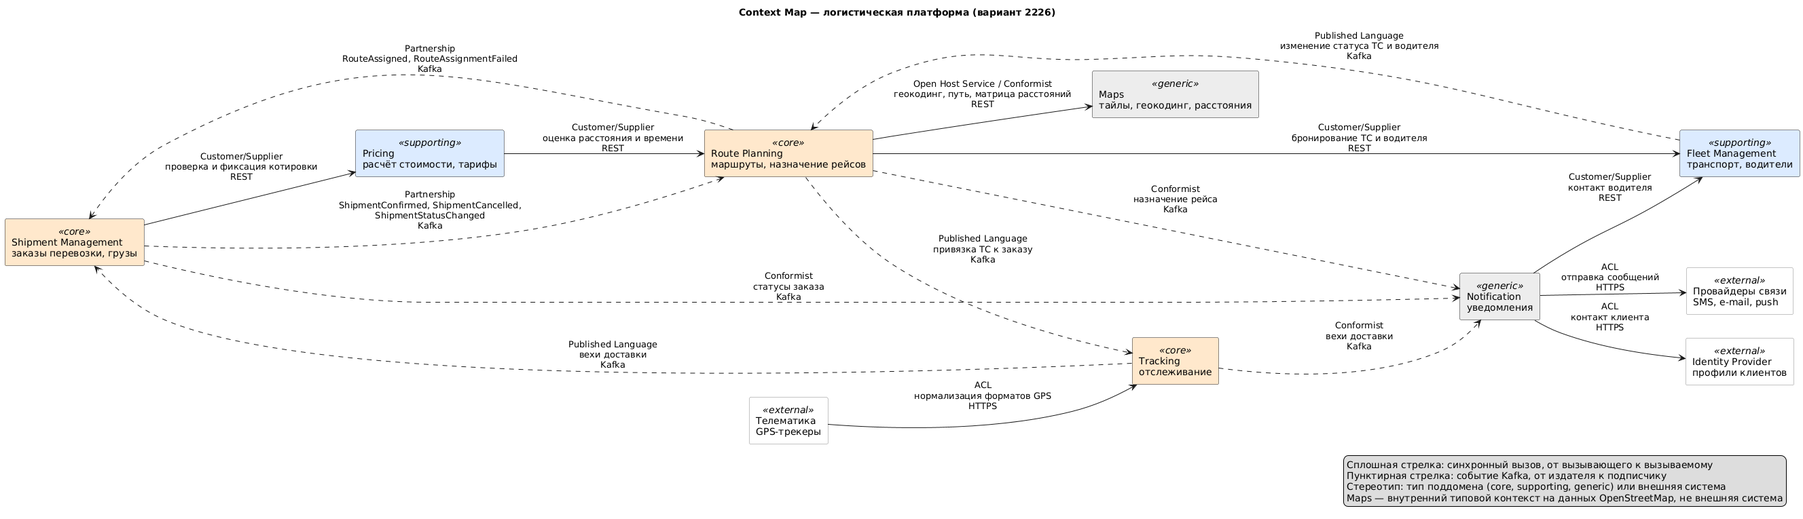
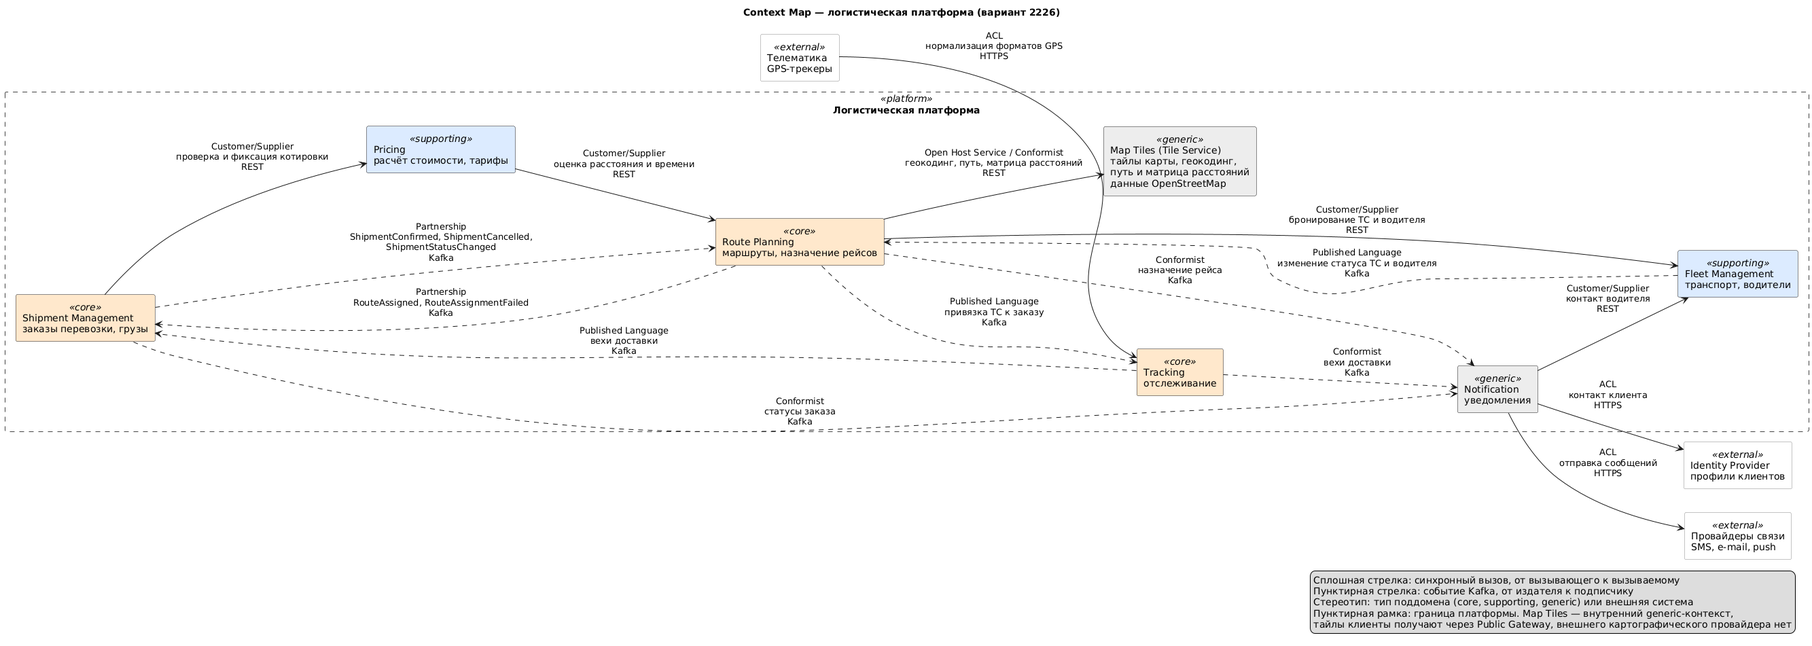
Refactor documentation and diagrams for Tile Service
- Updated ADR-001 to replace "Map" with "Tile Service" in descriptions and comparisons.
- Revised README to reflect changes in service naming and diagram references.
- Modified service catalog to include detailed API endpoints for Tile Service.
- Created new diagram for Tile Service and updated existing diagrams to reflect the new naming.
- Adjusted context map to include Tile Service and clarify its role within the logistics platform.
- Enhanced service descriptions to provide clearer responsibilities and dependencies.

diff --git a/1_lab/README.md b/1_lab/README.md
@@ -9,7 +9,7 @@
 | Context Map | [diagrams/context-map.puml](diagrams/context-map.puml) |
 | Каталог микросервисов | [services.md](services.md) |
 | ADR-001 | [ADR-001-decomposition.md](ADR-001-decomposition.md) |
-| Схема C4 | [diagrams/c4-context.puml](diagrams/c4-context.puml); контейнеры: [обзор](diagrams/c4-container.puml), [заказ и назначение рейса](diagrams/c4-container-orders.puml), [отслеживание](diagrams/c4-container-tracking.puml), [уведомления](diagrams/c4-container-notification.puml), [карты](diagrams/c4-container-map.puml); [развёртывание](diagrams/c4-deployment.puml) |
+| Схема C4 | [diagrams/c4-context.puml](diagrams/c4-context.puml); контейнеры: [обзор](diagrams/c4-container.puml), [заказ и назначение рейса](diagrams/c4-container-orders.puml), [отслеживание](diagrams/c4-container-tracking.puml), [уведомления](diagrams/c4-container-notification.puml), [карты](diagrams/c4-container-tiles.puml); [развёртывание](diagrams/c4-deployment.puml) |
 
 Сборка картинок: `plantuml -charset UTF-8 -tpng diagrams/*.puml`
 
@@ -35,7 +35,7 @@
 | Заказы | Shipment | 500 | создание около 12 RPS в пик, остальное чтение |
 | Расчёт стоимости | Pricing | 300 | несколько расчётов на один заказ |
 | Маршруты и автопарк | Route, Fleet | 150 | работа диспетчеров |
-| Тайлы карты и геокодинг | Map | 200 | карта на страницах отслеживания и подсказки адреса; большая часть тайлов отдаётся из кэша браузера и шлюза |
+| Тайлы карты и геокодинг | Tile Service | 200 | карта на страницах отслеживания и подсказки адреса; большая часть тайлов отдаётся из кэша браузера и шлюза |
 | История и настройки уведомлений | Notification | 50 | сама рассылка идёт из Kafka и в RPS не входит |
 | **Итого** | | **5 000** | |
 
@@ -53,15 +53,15 @@
 | Pricing | supporting | расчёт стоимости | Tariff |
 | Fleet Management | supporting | транспорт, водители | Vehicle, Driver |
 | Notification | generic | уведомления | Notification |
-| Maps | generic | карта, геокодинг, расстояния | MapTile, RoadGraph, Address |
+| Map Tiles | generic | тайлы карты, геокодинг, расстояния (Tile Service) | MapTile, RoadGraph, Address |
 
 Одно и то же понятие в разных контекстах значит разное, и это подтверждает границы:
 
 - **Driver** в Fleet — сотрудник с правами и статусом, в Route — назначенный ресурс, в Notification — получатель сообщения.
 - **Vehicle** в Fleet — единица автопарка с документами и грузоподъёмностью, в Tracking — только источник координат.
-- **Адрес** в Shipment — место забора или доставки по заказу, в Maps — запись индекса геокодинга без связи с заказами.
+- **Адрес** в Shipment — место забора или доставки по заказу, в Map Tiles — запись индекса геокодинга без связи с заказами.
 
-Maps — типовой поддомен: тайлы, геокодинг и расчёт пути не отличают платформу от других, поэтому сервис собирается из готовых открытых компонентов (данные OpenStreetMap, OSRM) и работает внутри платформы, а не как внешняя система. Так у Route и страниц отслеживания нет runtime-зависимости от стороннего провайдера, его лимитов и доступности.
+Map Tiles — типовой поддомен: тайлы, геокодинг и расчёт пути не отличают платформу от других, поэтому сервис собирается из готовых открытых компонентов (данные OpenStreetMap, OSRM) и работает внутри платформы, а не как внешняя система. Так у Route и страниц отслеживания нет runtime-зависимости от стороннего провайдера, его лимитов и доступности.
 
 ## 3. Context Map
 
@@ -73,7 +73,7 @@ Maps — типовой поддомен: тайлы, геокодинг и ра
 |---|---|---|---|---|
 | Pricing | Shipment | Customer/Supplier | REST | проверка и фиксация котировки |
 | Route | Pricing | Customer/Supplier | REST | оценка расстояния и времени |
-| Maps | Route | Open Host Service / Conformist | REST | геокодинг, путь и матрица расстояний |
+| Map Tiles | Route | Open Host Service / Conformist | REST | геокодинг, путь и матрица расстояний |
 | Fleet | Route | Customer/Supplier | REST, Kafka | бронирование, статусы транспорта и водителей |
 | Fleet | Notification | Customer/Supplier | REST | контакт водителя |
 | Shipment | Route | Partnership | Kafka | сага назначения рейса, в обе стороны |
@@ -95,11 +95,11 @@ Maps — типовой поддомен: тайлы, геокодинг и ра
 | Fleet | учёт и бронирование ресурсов | Vehicle, Driver, Reservation | PostgreSQL | Fleet |
 | Tracking | телеметрия и вехи | TrackingEvent | Cassandra, Redis | Tracking |
 | Notification | доставка сообщений | Notification, NotificationPreference, NotificationTemplate, Device | PostgreSQL | Pricing & Comms |
-| Map | тайлы, геокодинг, расстояния | набор данных карты (только чтение) | файлы тайлов и графа, PostgreSQL + PostGIS | Routing |
+| Tile Service | тайлы, геокодинг, расстояния | набор данных карты (только чтение) | файлы тайлов и графа, PostgreSQL + PostGIS | Routing |
 
 Правило владения: данные меняет только сервис-владелец, общих БД и чтения чужих таблиц нет. Копии чужих данных (проекция доступности в Route, привязка «заказ — транспорт» в Tracking) строятся из событий и не считаются источником истины.
 
-Семь сервисов распределены на пять команд. Pricing и Notification ведёт одна команда, потому что это самые простые сервисы и они не связаны между собой напрямую. Map ведёт команда Routing: это её основной потребитель, а сам сервис собран из готовых компонентов и почти не требует разработки. Шлюзы и Kafka обслуживает команда Tracking как основной потребитель Kafka: отдельной платформенной команды в варианте нет.
+Семь сервисов распределены на пять команд. Pricing и Notification ведёт одна команда, потому что это самые простые сервисы и они не связаны между собой напрямую. Tile Service ведёт команда Routing: это её основной потребитель, а сам сервис собран из готовых компонентов и почти не требует разработки. Шлюзы и Kafka обслуживает команда Tracking как основной потребитель Kafka: отдельной платформенной команды в варианте нет.
 
 **Точки входа.** Внешний трафик разделён по профилю нагрузки на два шлюза, у каждого свой адрес и свои экземпляры. Оба шлюза работают на Kong Ingress Controller без БД: маршруты описаны ресурсами Kubernetes, которые хранятся в git. Поэтому экземпляры не хранят состояния, и HPA добавляет их без какой-либо синхронизации (раздел 10).
 
@@ -125,9 +125,9 @@ Maps — типовой поддомен: тайлы, геокодинг и ра
 
 **Жизненный цикл заказа:**
 
-1. Клиент вводит адреса с подсказками Map Service (`GET /geocode`) и запрашивает стоимость: `POST /quotes`. Pricing берёт расстояние из своего кэша, а при промахе получает его от Route (`POST /routes/estimate`, Route считает его через `POST /matrix` в Map) и возвращает котировку.
+1. Клиент вводит адреса с подсказками Tile Service (`GET /geocode`) и запрашивает стоимость: `POST /quotes`. Pricing берёт расстояние из своего кэша, а при промахе получает его от Route (`POST /routes/estimate`, Route считает его через `POST /matrix` в Tile Service) и возвращает котировку.
 2. Клиент создаёт заказ: `POST /shipments` с `quoteId`. Shipment проверяет котировку в Pricing, копирует цену в заказ и публикует `ShipmentConfirmed`. Статус заказа: `CONFIRMED`.
-3. Route Planner получает событие и строит маршрут через Map Service. Кандидатов он выбирает по своей проекции доступности, а затем бронирует пару в Fleet (`POST /reservations`). При ответе 409 берётся следующий кандидат.
+3. Route Planner получает событие и строит маршрут через Tile Service. Кандидатов он выбирает по своей проекции доступности, а затем бронирует пару в Fleet (`POST /reservations`). При ответе 409 берётся следующий кандидат.
 4. Route Planner публикует `RouteAssigned`. Shipment переводит заказ в `ASSIGNED`, Tracking запоминает привязку транспорта к заказу, Notification сообщает водителю и клиенту. Если подобрать ресурс не удалось, публикуется `RouteAssignmentFailed` и заказ переходит в `ASSIGNMENT_FAILED`.
 5. Телематика и приложение водителя отправляют события через Ingest Gateway в `POST /tracking/events`. Ingest пишет их в Kafka, Writer сохраняет в Cassandra и Redis, а вехи (груз забран, груз доставлен) публикует в `tracking.milestones`.
 6. Shipment получает вехи и переводит заказ в `IN_TRANSIT`, затем в `DELIVERED`. По событию `ShipmentStatusChanged` со статусом `DELIVERED` Route Planner завершает рейс и освобождает бронь в Fleet.
@@ -155,7 +155,7 @@ Maps — типовой поддомен: тайлы, геокодинг и ра
 | Pricing | приём заказов, отслеживание | новых котировок нет, заказ принимается в `PRICE_PENDING`; после восстановления Shipment фиксирует цену и только тогда публикует `ShipmentConfirmed` |
 | Route API | приём заказов, отслеживание, назначение рейсов | Pricing при промахе кэша считает приближённую стоимость, перепланирование недоступно |
 | Route Planner | приём заказов, отслеживание, оценка стоимости | назначение откладывается, события ждут в Kafka |
-| Map | приём заказов, отслеживание позиций | карта на страницах не отображается, подсказок адреса нет; Pricing считает по кэшу или по прямому расстоянию; назначение рейсов откладывается |
+| Tile Service | приём заказов, отслеживание позиций | карта на страницах не отображается, подсказок адреса нет; Pricing считает по кэшу или по прямому расстоянию; назначение рейсов откладывается |
 | Fleet | приём заказов, отслеживание | назначение откладывается, Route повторяет попытку |
 | Tracking | приём заказов и назначение рейсов | позиции устаревают; при отказе Ingest клиенты повторяют отправку из своего буфера |
 | Notification | всё остальное | уведомления приходят с задержкой, но не теряются |
@@ -176,7 +176,7 @@ Maps — типовой поддомен: тайлы, геокодинг и ра
 | Vehicle и Driver | вместе | бронь пары должна быть атомарной, нагрузка низкая |
 | Route и Fleet | раздельно | Route требует CPU и часто меняет алгоритмы, Fleet — простой учёт |
 | Route API и Route Planner | одно приложение, два развёртывания | общий контекст, БД и команда, но API нужен быстрый отклик, а планированию — CPU и масштабирование по отставанию Kafka |
-| Map и Route | раздельно | карты — типовой поддомен без знания о заказах, данные только для чтения, ими пользуются ещё и страницы отслеживания |
+| Tile Service и Route | раздельно | карты — типовой поддомен без знания о заказах, данные только для чтения, ими пользуются ещё и страницы отслеживания |
 | Tracking и Shipment | раздельно | 4 000 против 500 RPS, неизменяемый временной ряд против транзакций, разные БД |
 | Tariff и Shipment | раздельно | тарифы меняются по коммерческим причинам, а заказ хранит снимок цены, поэтому новый тариф не меняет принятый заказ |
 | Notification | отдельно | типовой поддомен, работает только асинхронно, его сбой не влияет на заказ |
@@ -186,10 +186,10 @@ Maps — типовой поддомен: тайлы, геокодинг и ра
 | Ограничение | Как выполнено |
 |---|---|
 | Независимое масштабирование | у каждого развёртывания свой HPA и своя метрика, Ingest, Writer и Query в Tracking, API и Planner в Route масштабируются отдельно, балансировщик сам находит новые поды, внешний трафик разделён на два шлюза без состояния (разделы 4 и 10) |
-| Высокая доступность | три независимых ЦОДа, у каждого хранилища копия в каждом из них (раздел 9); приём заказа и телеметрии не зависит синхронно от Route, Fleet, Map и Notification; см. таблицу отказов; сбои видны в Grafana и приходят алертами (раздел 11) |
+| Высокая доступность | три независимых ЦОДа, у каждого хранилища копия в каждом из них (раздел 9); приём заказа и телеметрии не зависит синхронно от Route, Fleet, Tile Service и Notification; см. таблицу отказов; сбои видны в Grafana и приходят алертами (раздел 11) |
 | Владение данными | своя БД, одна команда-владелец и своя проверка прав доступа у каждого сервиса |
 | Выделение нового сервиса | см. раздел 8 |
-| 5 команд | основной сервис у каждой команды, Pricing & Comms ведёт два простых сервиса, Routing — ещё и Map из готовых компонентов |
+| 5 команд | основной сервис у каждой команды, Pricing & Comms ведёт два простых сервиса, Routing — ещё и Tile Service из готовых компонентов |
 | 5 000 RPS | чтение позиции идёт из Redis, запись буферизуется Kafka, история хранится в Cassandra с TTL |
 
 ## 7. Альтернативы
@@ -235,7 +235,7 @@ Maps — типовой поддомен: тайлы, геокодинг и ра
 | Redis Tracking (последние позиции) | master и 2 реплики, Sentinel в трёх ЦОДах | асинхронная | Sentinel повышает реплику | несколько секунд, позиции восстанавливаются следующими отметками за 10 с | до 30 с |
 | etcd (кворум для Patroni) | 3 узла, по одному в каждом ЦОДе | Raft | кворум 2 из 3 сохраняется | — | — |
 | Redis Pricing (кэш) | по экземпляру в каждом ЦОДе | нет, это кэш | остальные ЦОДы работают со своим кэшем | не важен, кэш наполняется заново | 0 |
-| Map (данные карты) | полная копия в каждом ЦОДе | нет, данные только для чтения собираются из одной выгрузки OSM | остальные ЦОДы работают со своей копией | 0 | 0 |
+| Tile Service (данные карты) | полная копия в каждом ЦОДе | нет, данные только для чтения собираются из одной выгрузки OSM | остальные ЦОДы работают со своей копией | 0 | 0 |
 | Шлюзы и сервисы | экземпляры в каждом ЦОДе | состояния нет | GSLB исключает ЦОД из ответов DNS | — | до 1 мин (TTL DNS) |
 
 Запись из ЦОДов B и C идёт в лидер PostgreSQL и занимает на 1–3 мс больше, чтение идёт из локальной реплики. Лидеры пяти кластеров можно разнести по разным ЦОДам, чтобы распределить нагрузку на запись. Если откажут сразу два ЦОДа, запись в PostgreSQL остановится: подтвердить коммит будет некому. Это сделано намеренно, чтобы не терять данные, а переключение в таком случае выполняется вручную.
@@ -288,7 +288,7 @@ Grafana работает в каждом ЦОДе, дашборды хранят
 | Межцодовые задержки | запись в PostgreSQL дольше на 1–3 мс | ЦОДы в одном регионе, лидеры кластеров распределены по ЦОДам |
 | Репликация копирует ошибки | ошибочное удаление попадает во все копии | WAL-архив и снапшоты в другом регионе, восстановление на момент времени |
 | Стоимость трёх ЦОДов | тройной объём хранения, запас мощности 50 % в каждом ЦОДе | это цена требования 24/7; объём телеметрии ограничен TTL 90 дней |
-| Синхронная цепочка Pricing → Route → Map | каскадные задержки | кэш оценок в Pricing, таймауты, circuit breaker, приближённая оценка расстояния |
+| Синхронная цепочка Pricing → Route → Tile Service | каскадные задержки | кэш оценок в Pricing, таймауты, circuit breaker, приближённая оценка расстояния |
 | Устаревшие данные карты | новая дорога или адрес не находятся | еженедельное обновление выгрузки OSM, переключение версии с возможностью отката |
 | Устаревшая проекция доступности в Route | выбор уже занятого ресурса | окончательную проверку выполняет Fleet при бронировании, ответ 409 |
 | Рост хранилища телеметрии | около 7 ТБ с репликацией, горячие партиции | TTL 90 дней, архив в объектное хранилище, партиция по `vehicleId` и дню |

diff --git a/1_lab/ADR-001-decomposition.md b/1_lab/ADR-001-decomposition.md
@@ -26,13 +26,13 @@
 
 ### Альтернатива B. Модульный монолит и отдельный Tracking
 
-Две единицы развёртывания: монолит с модулями Shipment, Pricing, Fleet, Route, Notification, Map и отдельный Tracking.
+Две единицы развёртывания: монолит с модулями Shipment, Pricing, Fleet, Route, Notification, Tile Service и отдельный Tracking.
 
 Самый дешёвый вариант в эксплуатации. Сохраняются ACID-транзакции, нет саг, решается главная проблема нагрузки. Но расчёт маршрутов и приём заказов масштабируются только вместе, сбой любого модуля затрагивает приём заказов, четыре команды остаются в общем релизе, а владение данными держится на соглашениях внутри одной БД.
 
 ### Альтернатива C. Семь сервисов по bounded contexts (выбрана)
 
-Shipment (с Cargo), Pricing, Route (API и воркер Route Planner), Fleet (Vehicle и Driver), Tracking, Notification и типовой Map Service. У каждого сервиса своя БД, взаимодействие в основном через события Kafka.
+Shipment (с Cargo), Pricing, Route (API и воркер Route Planner), Fleet (Vehicle и Driver), Tracking, Notification и типовой Tile Service. У каждого сервиса своя БД, взаимодействие в основном через события Kafka.
 
 ## Сравнение
 
@@ -55,7 +55,7 @@ Shipment (с Cargo), Pricing, Route (API и воркер Route Planner), Fleet (
 - **Tracking** выделен и внутри разделён на Ingest, Writer и Query.
 - **Route** выделен и развёрнут двумя частями: Route API для синхронных запросов и воркер Route Planner для построения маршрутов и саги назначения.
 - **Pricing и Notification** выделены как самостоятельные контексты.
-- **Map** — типовой поддомен (тайлы, геокодинг, расстояния), работает внутри платформы на открытых данных вместо внешнего картографического провайдера.
+- **Tile Service** — типовой поддомен (тайлы, геокодинг, расстояния), работает внутри платформы на открытых данных вместо внешнего картографического провайдера.
 
 Взаимодействие строится так:
 
@@ -66,9 +66,9 @@ Shipment (с Cargo), Pricing, Route (API и воркер Route Planner), Fleet (
 ## Обоснование выбора
 
 1. **Границы совпадают с транзакционными инвариантами.** Каждая атомарная операция (создание заказа, бронирование пары) остаётся внутри одного сервиса и одной БД. Альтернатива A этого не обеспечивает.
-2. **Границы совпадают с профилями нагрузки.** Tracking (поток записи и чтение), Route Planner (CPU), Route API и Fleet (низконагруженные запросы), Map (чтение с кэшированием) масштабируются по разным метрикам. Альтернатива B покрывает только Tracking.
+2. **Границы совпадают с профилями нагрузки.** Tracking (поток записи и чтение), Route Planner (CPU), Route API и Fleet (низконагруженные запросы), Tile Service (чтение с кэшированием) масштабируются по разным метрикам. Альтернатива B покрывает только Tracking.
 3. **Критичные операции не зависят от второстепенных.** Приём заказа синхронно зависит только от Pricing, и эта зависимость деградирует до статуса `PRICE_PENDING`. Приём телеметрии не имеет синхронных зависимостей от других сервисов.
-4. **Число сервисов соответствует числу команд.** Семь сервисов на пять команд: у каждой команды свой основной сервис, команда Pricing & Comms ведёт два простых и слабо связанных сервиса (Pricing и Notification), а команда Routing — ещё и Map, собранный из готовых компонентов.
+4. **Число сервисов соответствует числу команд.** Семь сервисов на пять команд: у каждой команды свой основной сервис, команда Pricing & Comms ведёт два простых и слабо связанных сервиса (Pricing и Notification), а команда Routing — ещё и Tile Service, собранный из готовых компонентов.
 
 Альтернатива B дешевле, и при маленькой команде или без требования независимого масштабирования она была бы лучшим выбором. Здесь решающими оказались явные ограничения варианта и пять команд.
 
@@ -77,7 +77,7 @@ Shipment (с Cargo), Pricing, Route (API и воркер Route Planner), Fleet (
 ### Положительные
 
 - Каждая часть системы масштабируется по своей метрике.
-- Отказ Pricing, Route, Fleet, Map или Notification не останавливает приём заказов и телеметрии.
+- Отказ Pricing, Route, Fleet, Tile Service или Notification не останавливает приём заказов и телеметрии.
 - У каждой сущности один владелец, схему БД можно менять независимо.
 - Команды выпускают релизы независимо, координация нужна только при изменении контрактов.
 - Новый потребитель событий подключается без изменения существующих сервисов.
@@ -121,9 +121,9 @@ Shipment (с Cargo), Pricing, Route (API и воркер Route Planner), Fleet (
 
 ![C4, контейнеры: уведомления](diagrams/c4-container-notification.png)
 
-**Карты**. Исходник: [diagrams/c4-container-map.puml](diagrams/c4-container-map.puml).
+**Карты**. Исходник: [diagrams/c4-container-tiles.puml](diagrams/c4-container-tiles.puml).
 
-![C4, контейнеры: карты](diagrams/c4-container-map.png)
+![C4, контейнеры: карты](diagrams/c4-container-tiles.png)
 
 ### Развёртывание
 
